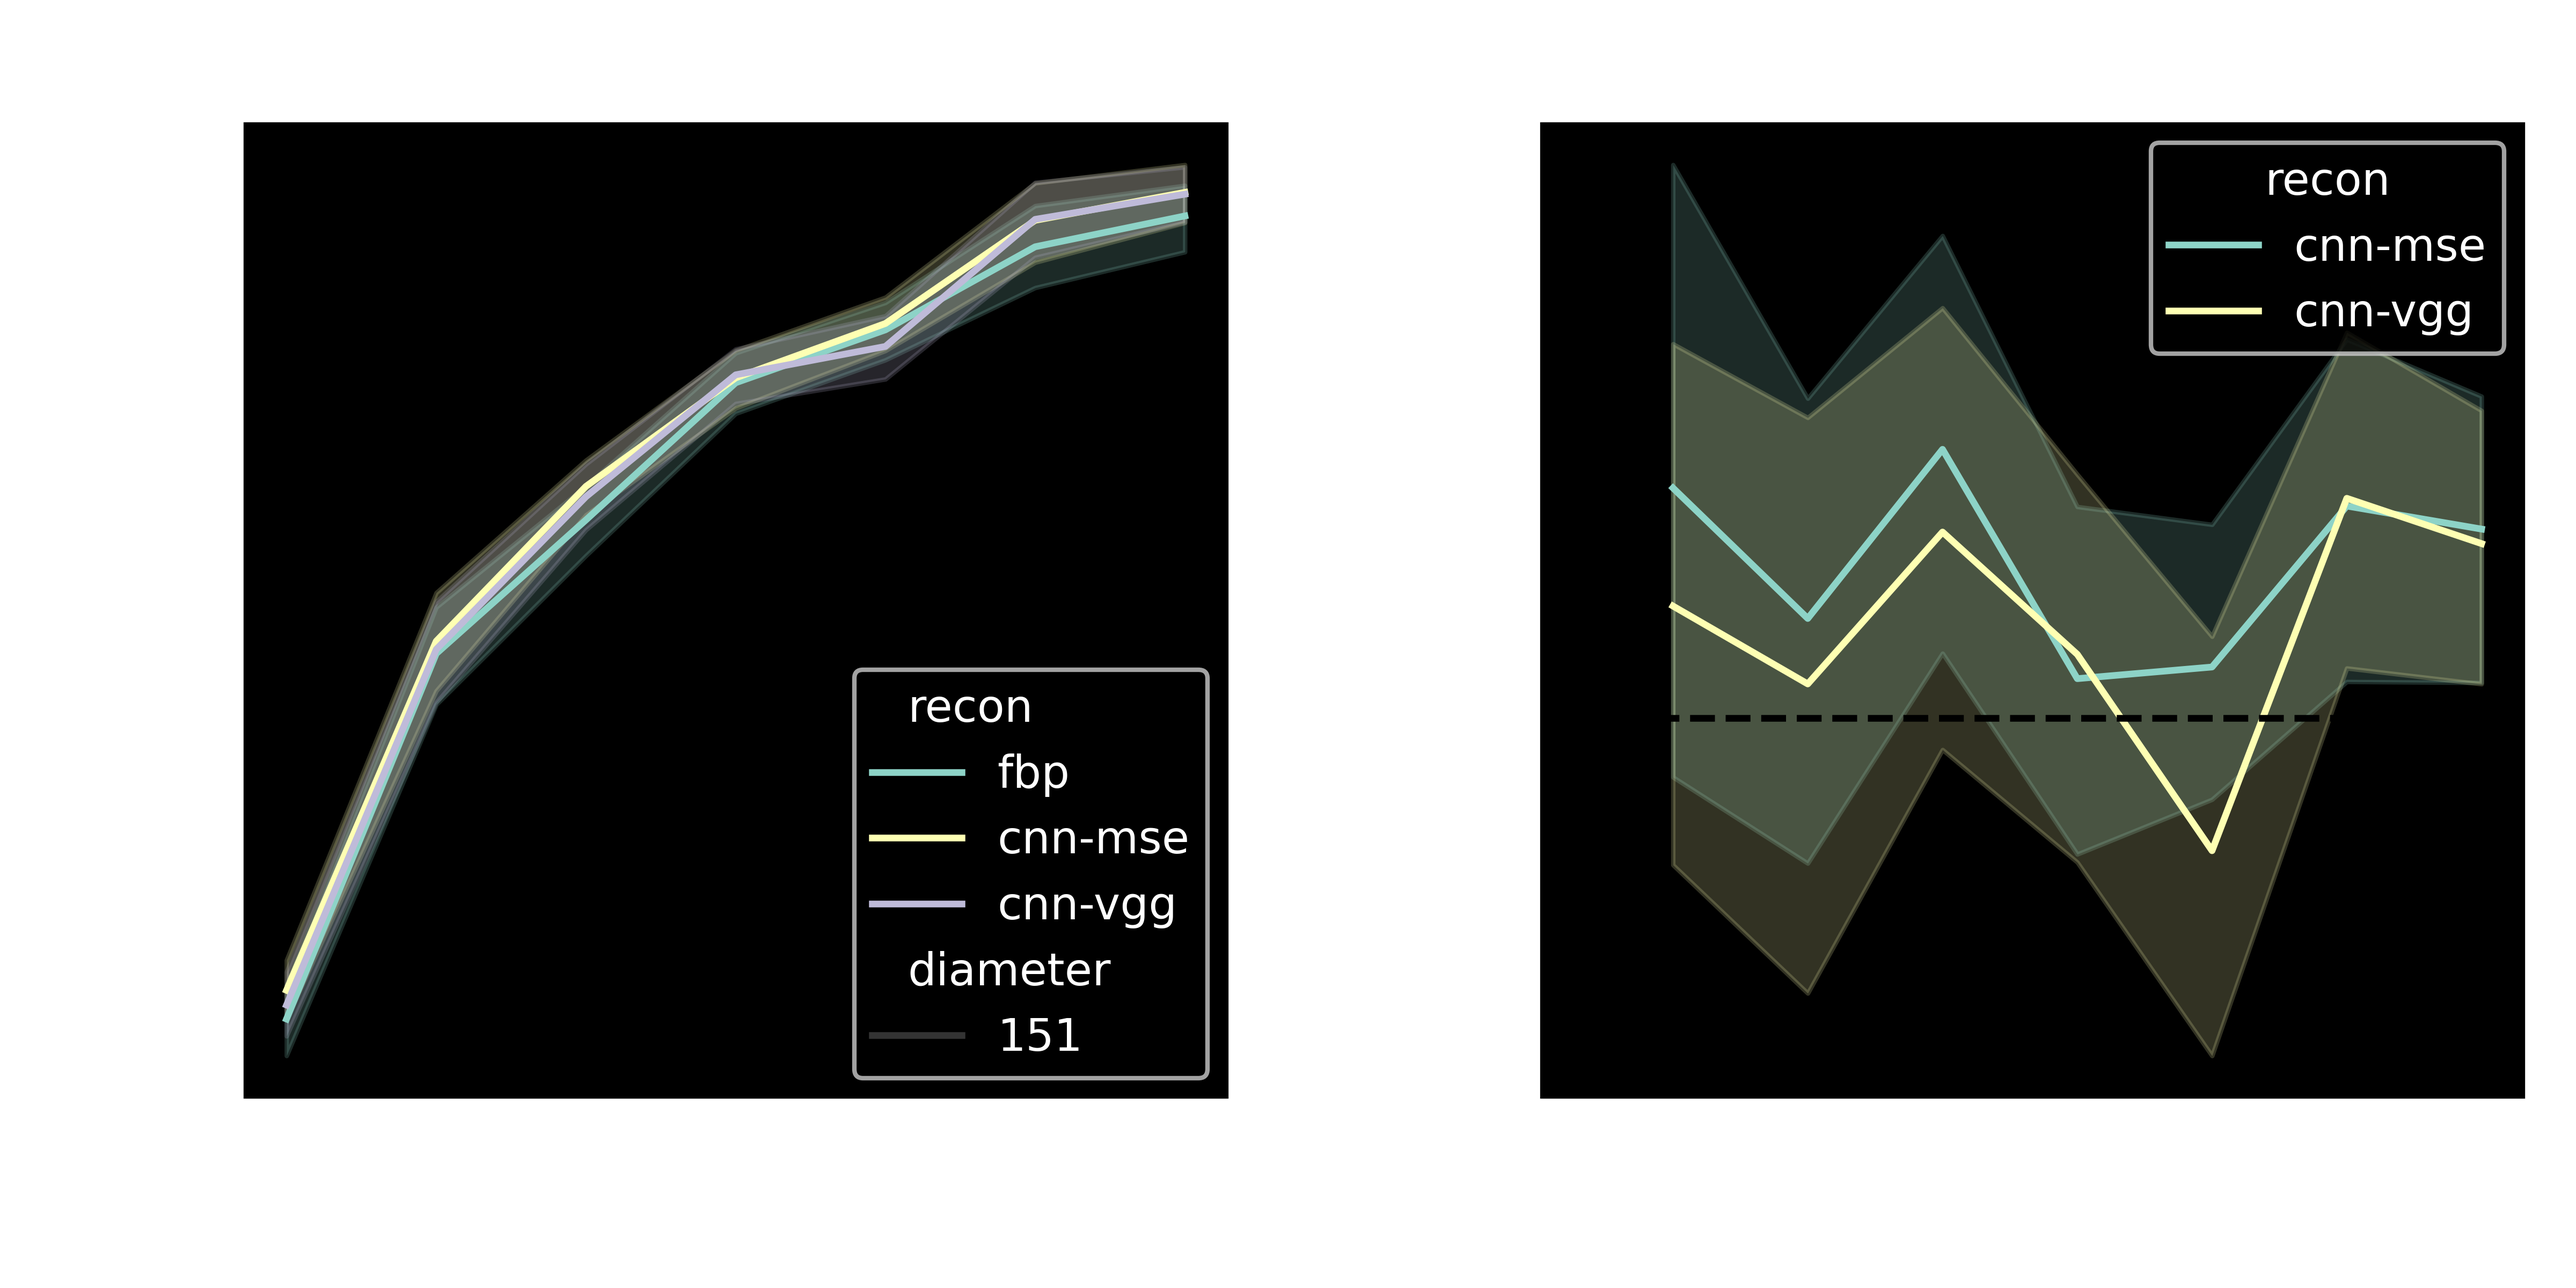
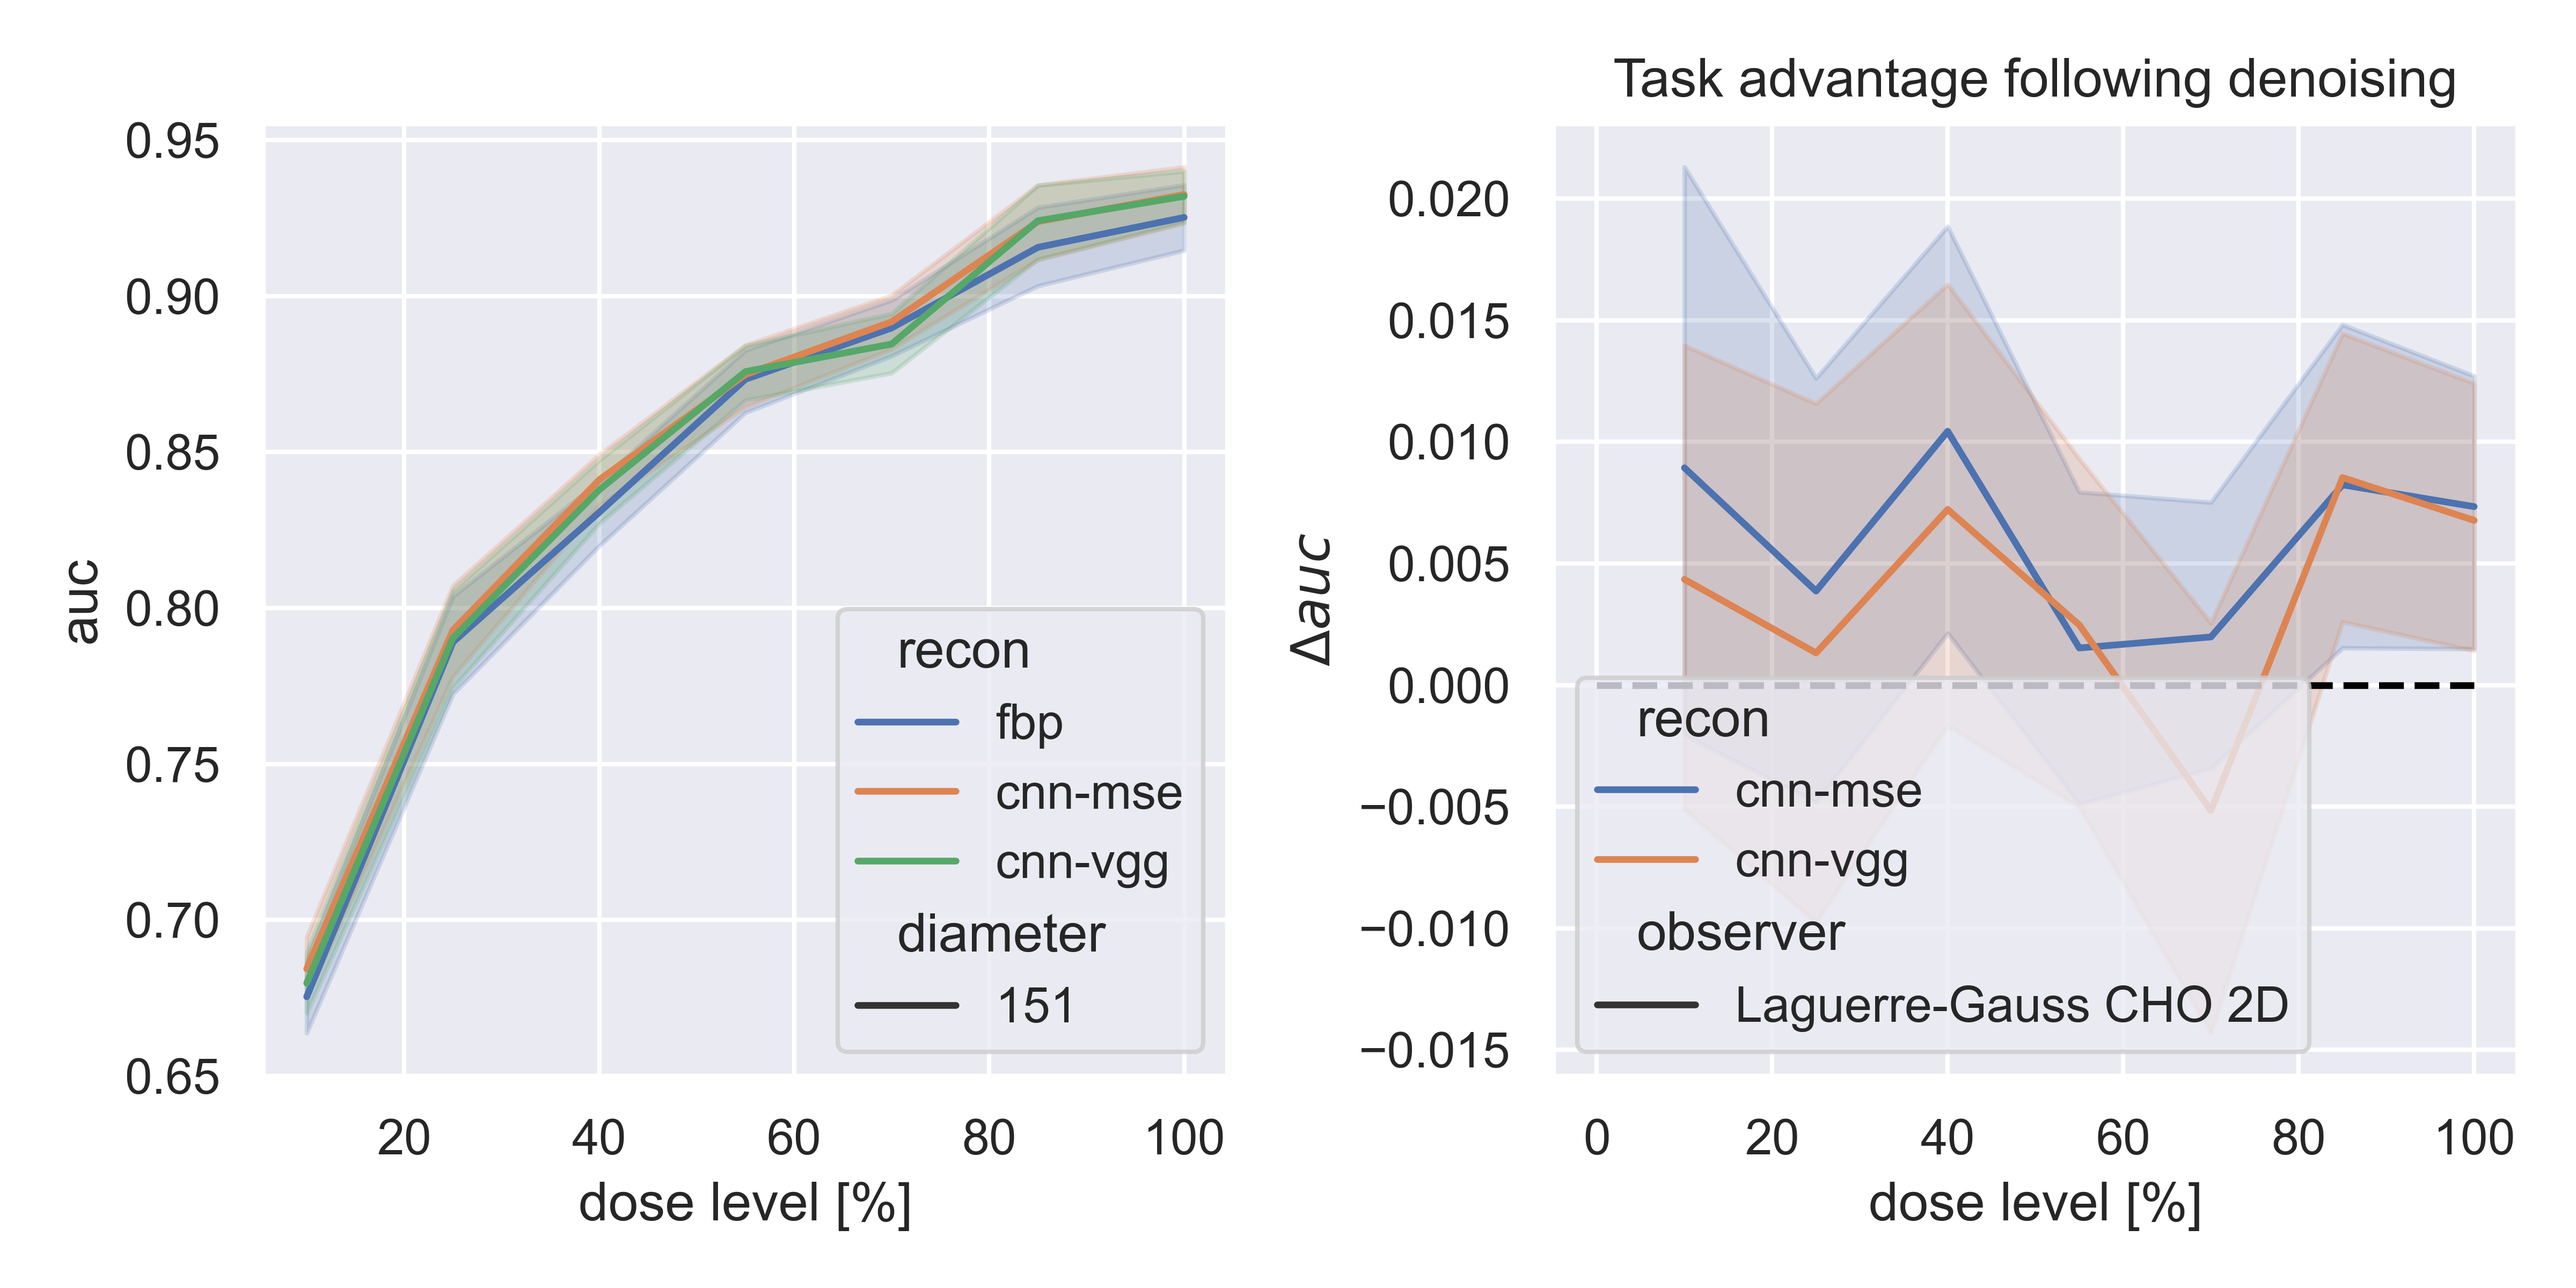
fixed augmented training

diff --git a/train_denoiser_with_augmentation.py b/train_denoiser_with_augmentation.py
@@ -25,12 +25,12 @@ import urllib
 import tensorflow as tf
 
 from tensorflow import keras
-from scipy import ndimage, misc
 import numpy as np
 import matplotlib.pyplot as plt
-import matplotlib.style as style
-import time
 import os
+import seaborn as sns
+sns.set_theme()
+sns.set_style("white")
 # %%
 """## Loading Data
 
@@ -222,18 +222,70 @@ noise_images = noise_images.reshape([*noise_images.shape, 1])
 noise_images.shape
 plt.imshow(noise_images[1])
 # %%
+import numpy as np
+def compute_nps(image):
+
+  if image.ndim == 2:
+    image = image[None, :, :]
+
+  nsize = image.shape
+  nrealization = nsize[0]
+  if image.ndim == 3:
+    nps = np.zeros((nsize[1],nsize[2]))
+    for i in range(nrealization):
+      subimage = image[i]
+      s = np.fft.fftshift(np.fft.fft2(image[i]))
+      nps = np.abs(s)**2 + nps
+    nps = nps/(nsize[1]*nsize[2]);
+  else:
+    raise ValueError(f'Image of dimension {image.ndim} Not implemented!')
+  return nps
+# %%
+nps = compute_nps(noise_images[:,:,:,0])
+plt.imshow(nps)
+def radial_profile(data, center=None):
+    center = center or (data.shape[0]/2, data.shape[1]/2)
+    y, x = np.indices((data.shape))
+    r = np.sqrt((x - center[0])**2 + (y - center[1])**2)
+    r = r.astype(int)
+
+    tbin = np.bincount(r.ravel(), data.ravel())
+    nr = np.bincount(r.ravel())
+    radialprofile = tbin / nr
+    return radialprofile
+# %%
+nps_1d = radial_profile(nps)
+plt.plot(nps_1d)
+# %%
 from sklearn.feature_extraction.image import PatchExtractor
 patch_sz = (30, 30)
 noise_patches = PatchExtractor(patch_size=patch_sz, max_patches=30).transform(noise_images)
 noise_patches.shape
+# %%
+f, axs = plt.subplots(1, 2)
+axs[0].plot(nps_1d)
+axs[1].plot(radial_profile(compute_nps(noise_patches)))
+# %%
+train_noise = train_target - train_input
+f, axs = plt.subplots(1,2)
+axs[0].imshow(compute_nps(train_noise[:,:,:,0]))
+axs[1].imshow(compute_nps(noise_patches))
+# %%
+f, axs = plt.subplots(1, 2)
+axs[0].plot(nps_1d)
+axs[1].plot(radial_profile(compute_nps(noise_patches)), label='proposed data aug noise')
+axs[1].plot(radial_profile(compute_nps(train_noise[:,:,:,0])), label='training set noise')
+plt.legend()
 # %%
 def augment(image_label, seed, max_noise=1):
   image, label = image_label
   new_seed = tf.random.experimental.stateless_split(seed, num=1)[0, :]
   noise_patch = noise_patches[np.random.choice(list(range(len(noise_patches))))][:,:,None]
   noise_lambda = tf.random.uniform([1], minval=0, maxval=max_noise)
-  # print(float(noise_lambda[0]))
-  image = image + noise_lambda[0]*noise_patch
+
+  add_noise = tf.random.uniform([1], minval=0, maxval=1) > 0.5
+  if add_noise:
+    image = image + noise_lambda[0]*noise_patch
   return image, label
 # %%
 batch_size = 32
@@ -279,7 +331,7 @@ optimizer = tf.keras.optimizers.legacy.Adam(lr=learning_rate)
 denoising_model.compile(optimizer=optimizer, loss='mse')
 
 # This sets the number of iterations through the training data
-epochs = 30
+epochs = 15
 
 # This sets the number of images patches used to calcualte a single
 # parameter update.
@@ -301,13 +353,14 @@ progress_ims = []
 
 AUTOTUNE = tf.data.AUTOTUNE
 
-def train(loss_function, model, augment=False):
+def train(loss_function, model, augment_training=False):
 
     train_ds = (
         train_dataset
         .map(f, num_parallel_calls=AUTOTUNE)
-       .prefetch(AUTOTUNE)
-    ) if augment else (
+        .batch(batch_size)
+        .prefetch(AUTOTUNE)
+    ) if augment_training else (
         train_dataset
        .prefetch(AUTOTUNE)
     )
@@ -347,12 +400,14 @@ def train(loss_function, model, augment=False):
 
 # Now run the training fuction to obtain the trained model and performance at
 # intermediate steps
-denoising_model = build_model()
-denoising_model.compile(optimizer=optimizer, loss='mse')
-denoising_model, progress_ims, progress_val = train(loss_function='mse', model=denoising_model, augment=augment_training)
+for augment_training in [True, False]:
+  denoising_model = build_model()
+  denoising_model.compile(optimizer=optimizer, loss='mse')
+  print(f'Running augmented training: {augment_training}')
+  denoising_model, progress_ims, progress_val = train(loss_function='mse', model=denoising_model, augment_training=augment_training)
 
-save_name = 'models/simple_cnn_denoiser_augmented' if augment_training else 'models/simple_cnn_denoiser'
-tf.keras.models.save_model(denoising_model, save_name)
+  save_name = 'models/simple_cnn_denoiser_augmented' if augment_training else 'models/simple_cnn_denoiser'
+  tf.keras.models.save_model(denoising_model, save_name)
 
 # %%
 #Cell 8

diff --git a/plot_diameter_results.py b/plot_diameter_results.py
@@ -3,7 +3,7 @@ import seaborn as sns
 import matplotlib.pyplot as plt
 import pandas as pd
 
-# sns.set_style('white')
+sns.set_theme()
 
 res = pd.read_csv('lcd_v_diameter_results.csv')
 res = res[~res.duplicated()]
@@ -38,7 +38,7 @@ delta_df = temp[temp.recon != 'fbp']
 delta_df['$\Delta auc$'] = delta_df['auc'] - ref_auc
 delta_df.pop('auc')
 delta_df.pop('snr')
-sns.lineplot(ax=axs[1], data=delta_df, x='dose level [%]', y = '$\Delta auc$', hue='recon')
+sns.lineplot(ax=axs[1], data=delta_df, x='dose level [%]', y = '$\Delta auc$', hue='recon', style='observer')
 axs[1].hlines(y=0, xmin=0, xmax=100, color='black', linestyle='--')
 axs[1].set_title('Task advantage following denoising')
 f.tight_layout()
@@ -55,7 +55,7 @@ delta_df = temp[temp.recon != 'fbp']
 delta_df['$\Delta auc$'] = delta_df['auc'] - ref_auc
 delta_df.pop('auc')
 delta_df.pop('snr')
-sns.lineplot(ax=axs[1], data=delta_df, x='diameter', y = '$\Delta auc$', hue='recon')
+sns.lineplot(ax=axs[1], data=delta_df, x='diameter', y = '$\Delta auc$', hue='recon', style='observer')
 axs[1].hlines(y=0, xmin=100, xmax=350, color='black', linestyle='--')
 axs[1].set_title('Task advantage following denoising')
 f.tight_layout()

diff --git a/measure_LCD_diameter_dependence.m b/measure_LCD_diameter_dependence.m
@@ -5,7 +5,8 @@ if ~exist(base_data_folder)
 end
 
 addpath(genpath('LCD_CT'));
-observers = {LG_CHO_2D()};
+observers = {LG_CHO_2D(),...
+             NPWE_2D()};
 % observers = {DOG_CHO_2D()}
 % observers = {LG_CHO_2D(),...
 %              DOG_CHO_2D(),...
@@ -40,7 +41,11 @@ for i = 1:length(series_list)
   if i==1
       res_table = res;
   end
-  res_table = cat(1, res_table, res);
+  if is_octave
+    res_table = vertcat(res_table, res);
+  else
+    res_table = cat(1, res_table, res);
+  end
 
 end
 write_lcd_results(res_table, 'lcd_v_diameter_results.csv')
